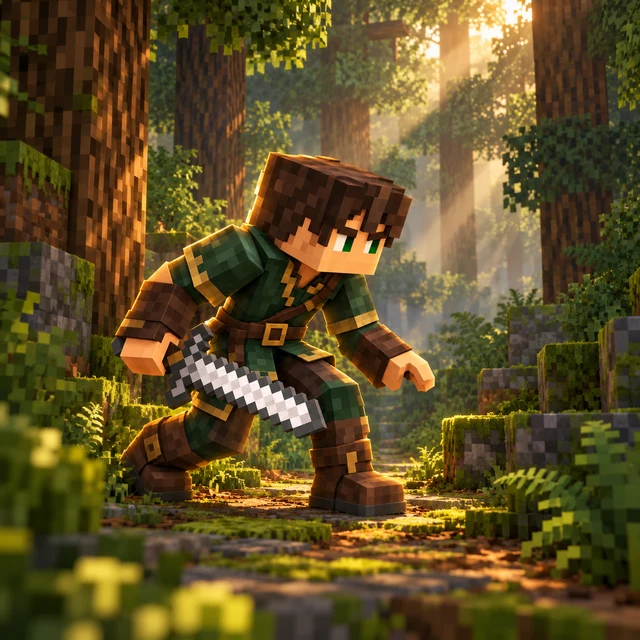
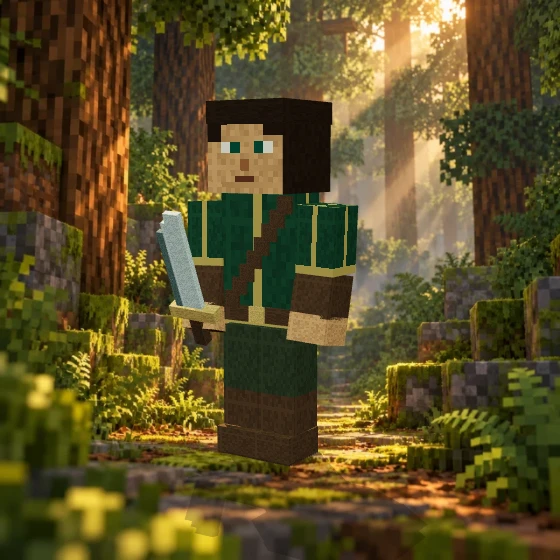
Animate standing crouch and seamless invisibility sequence

Changed region(s): [[0.1214, 0.1518, 0.7286, 0.9714], [0.6982, 0.6375, 0.7893, 0.6679], [0.7286, 0.7589, 0.7589, 0.7893]]

diff --git a/scripts/render-sneak.html b/scripts/render-sneak.html
@@ -1,0 +1,331 @@
+<!doctype html>
+<html>
+  <head>
+    <meta charset="utf-8" />
+    <title>Sneak animation studio</title>
+    <style>
+      body {
+        margin: 0;
+        background: #11271f;
+        color: #edd8ac;
+        font: 16px system-ui;
+      }
+      canvas {
+        display: block;
+      }
+      button {
+        padding: 12px;
+        margin: 10px;
+      }
+      #status {
+        padding: 10px;
+      }
+    </style>
+  </head>
+  <body>
+    <canvas id="scene"></canvas><button id="stand">Standing pose</button
+    ><button id="crouch">Crouching pose</button
+    ><button id="replay">Replay</button
+    ><button id="export">Export animation frames</button
+    ><button id="still">Export standing still</button>
+    <div id="status">Loading woodland…</div>
+    <script type="module">
+      import * as THREE from "/node_modules/three/build/three.module.js";
+      const W = 560,
+        FPS = 16,
+        DURATION = 7,
+        COUNT = FPS * DURATION;
+      const renderer = new THREE.WebGLRenderer({
+        canvas: document.querySelector("#scene"),
+        antialias: true,
+        preserveDrawingBuffer: true,
+      });
+      renderer.shadowMap.enabled = true;
+      renderer.shadowMap.type = THREE.PCFSoftShadowMap;
+      renderer.setSize(W, W);
+      renderer.setPixelRatio(1);
+      renderer.outputColorSpace = THREE.SRGBColorSpace;
+      renderer.toneMapping = THREE.ACESFilmicToneMapping;
+      renderer.toneMappingExposure = 1.22;
+      const scene = new THREE.Scene();
+      scene.background = await new THREE.TextureLoader().loadAsync(
+        "/public/art/sneak-woods.webp",
+      );
+      scene.background.colorSpace = THREE.SRGBColorSpace;
+      const camera = new THREE.PerspectiveCamera(33, 1, 0.1, 250);
+      camera.position.set(36, 27, 78);
+      camera.lookAt(0, 16, 0);
+      scene.add(new THREE.HemisphereLight(0xd9eed7, 0x3b2817, 2.3));
+      const sun = new THREE.DirectionalLight(0xffd28b, 4);
+      sun.position.set(-18, 40, -22);
+      sun.castShadow = true;
+      sun.shadow.mapSize.set(1024, 1024);
+      sun.shadow.camera.left = -25;
+      sun.shadow.camera.right = 25;
+      sun.shadow.camera.top = 45;
+      sun.shadow.camera.bottom = -20;
+      sun.shadow.bias = -0.001;
+      scene.add(sun);
+      const fill = new THREE.DirectionalLight(0xe4edff, 1.1);
+      fill.position.set(20, 18, 40);
+      scene.add(fill);
+      const fade = { value: 1 };
+      function texture(base, kind) {
+        const c = document.createElement("canvas");
+        c.width = c.height = 16;
+        const ctx = c.getContext("2d");
+        const color = new THREE.Color(base);
+        for (let y = 0; y < 16; y++)
+          for (let x = 0; x < 16; x++) {
+            const n = 1 + (((x * 17 + y * 31 + x * y * 7) % 19) - 9) * 0.02;
+            ctx.fillStyle =
+              "#" + color.clone().multiplyScalar(n).getHexString();
+            ctx.fillRect(x, y, 1, 1);
+          }
+        if (kind === "tunic") {
+          ctx.fillStyle = "#b59a50";
+          ctx.fillRect(0, 14, 16, 2);
+          ctx.fillRect(7, 0, 2, 16);
+        }
+        if (kind === "face") {
+          ctx.fillStyle = "#352315";
+          ctx.fillRect(0, 0, 16, 4);
+          ctx.fillRect(0, 3, 3, 4);
+          ctx.fillRect(12, 3, 4, 3);
+          ctx.fillStyle = "#ede7ce";
+          ctx.fillRect(3, 7, 4, 2);
+          ctx.fillRect(10, 7, 4, 2);
+          ctx.fillStyle = "#245746";
+          ctx.fillRect(5, 7, 2, 2);
+          ctx.fillRect(10, 7, 2, 2);
+          ctx.fillStyle = "#9e6540";
+          ctx.fillRect(7, 10, 2, 2);
+          ctx.fillStyle = "#704329";
+          ctx.fillRect(6, 13, 4, 1);
+        }
+        const tex = new THREE.CanvasTexture(c);
+        tex.magFilter = THREE.NearestFilter;
+        tex.minFilter = THREE.NearestFilter;
+        tex.colorSpace = THREE.SRGBColorSpace;
+        return tex;
+      }
+      function mat(color, kind) {
+        const m = new THREE.MeshStandardMaterial({
+          map: texture(color, kind),
+          roughness: 0.86,
+        });
+        m.onBeforeCompile = (s) => {
+          s.uniforms.visibility = fade;
+          s.fragmentShader = "uniform float visibility;\n" + s.fragmentShader;
+          s.fragmentShader = s.fragmentShader.replace(
+            "#include <clipping_planes_fragment>",
+            "#include <clipping_planes_fragment>\nvec2 cell=floor(gl_FragCoord.xy/2.0); float noise=fract(sin(dot(cell,vec2(12.9898,78.233)))*43758.5453); if(visibility <= 0.0 || noise > visibility) discard;",
+          );
+        };
+        return m;
+      }
+      const green = mat("#284d37", "tunic"),
+        leather = mat("#59402b"),
+        skin = mat("#c79260"),
+        hair = mat("#382719"),
+        face = mat("#c79260", "face"),
+        gold = mat("#c4a15a"),
+        pants = mat("#3d4530"),
+        iron = mat("#c7d2cb"),
+        edge = mat("#657a77");
+      const root = new THREE.Group();
+      root.rotation.y = -0.15;
+      root.position.x = -1;
+      scene.add(root);
+      function box(parent, w, h, d, x, y, z, material) {
+        const mesh = new THREE.Mesh(new THREE.BoxGeometry(w, h, d), material);
+        mesh.castShadow = true;
+        mesh.receiveShadow = true;
+        mesh.position.set(x, y, z);
+        parent.add(mesh);
+        return mesh;
+      }
+      function joint(parent, x, y, z) {
+        const j = new THREE.Group();
+        j.position.set(x, y, z);
+        parent.add(j);
+        return j;
+      }
+      const hip = joint(root, 0, 12, 0),
+        torso = joint(hip, 0, 0, 0);
+      box(torso, 8, 12, 4, 0, 6, 0, green);
+      box(torso, 8.15, 1.5, 4.15, 0, 1, 0, leather);
+      box(torso, 1.6, 1.5, 0.3, 0, 1, 2.2, gold);
+      for (let i = 0; i < 8; i++)
+        box(torso, 1.5, 1.6, 0.3, 3 - i * 0.82, 11 - i * 1.25, 2.15, leather);
+      const head = joint(torso, 0, 12, 0);
+      box(head, 8, 8, 8, 0, 4, 0, [hair, hair, hair, skin, face, hair]);
+      box(head, 8.2, 2, 8.2, 0, 7.1, 0, hair);
+      const legs = [];
+      for (const side of [-1, 1]) {
+        const thigh = joint(hip, side * 2, -0.2, 0);
+        box(thigh, 3.8, 6, 4, 0, -3, 0, pants);
+        const knee = joint(thigh, 0, -6, 0);
+        box(knee, 3.8, 6, 4, 0, -3, 0, leather);
+        box(knee, 4, 2.5, 5, 0, -4.8, 0.45, leather);
+        legs.push({ thigh, knee });
+      }
+      const arms = [];
+      for (const side of [-1, 1]) {
+        const shoulder = joint(torso, side * 6, 10, 0);
+        box(shoulder, 4, 6, 4, 0, -2, 0, green);
+        const elbow = joint(shoulder, 0, -5, 0);
+        box(elbow, 3.8, 4, 3.8, 0, -2, 0, leather);
+        box(elbow, 3.8, 2.5, 3.8, 0, -5, 0, skin);
+        arms.push({ shoulder, elbow });
+      }
+      const sword = joint(arms[0].elbow, 0, -5.5, 2);
+      sword.rotation.x = 0.72;
+      sword.rotation.z = -0.12;
+      box(sword, 1.2, 3, 1, 0, -1, 0, leather);
+      box(sword, 5, 1.2, 1.2, 0, 1, 0, gold);
+      for (let y = 2; y < 12; y++) {
+        box(sword, y === 11 ? 1 : 2.1, 1, 0.6, 0, y, 0, iron);
+        if (y < 10) box(sword, 0.7, 1, 0.65, -1.4, y, 0, edge);
+      }
+      box(sword, 1, 1, 0.65, 0.6, 11, 0, iron);
+      const shadowMat = new THREE.ShadowMaterial({
+        opacity: 0.3,
+        depthWrite: false,
+      });
+      const shadow = new THREE.Mesh(new THREE.PlaneGeometry(80, 80), shadowMat);
+      shadow.rotation.x = -Math.PI / 2;
+      shadow.position.set(-1, -0.1, 0);
+      shadow.receiveShadow = true;
+      scene.add(shadow);
+      const motes = [];
+      for (let i = 0; i < 30; i++) {
+        const m = new THREE.Mesh(
+          new THREE.BoxGeometry(0.22, 0.22, 0.22),
+          new THREE.MeshBasicMaterial({
+            color: i % 3 === 0 ? 0xdcc987 : 0x89b9a0,
+            transparent: true,
+          }),
+        );
+        scene.add(m);
+        motes.push(m);
+      }
+      const ease = (x) => {
+        x = Math.max(0, Math.min(1, x));
+        return x * x * (3 - 2 * x);
+      };
+      function pose(t) {
+        const crouch = ease((t - 2) / 0.5) * (1 - ease((t - 5.75) / 0.75));
+        const phase = (t / DURATION) * Math.PI * 2;
+        fade.value =
+          t < 3
+            ? 1
+            : t < 3.75
+              ? 1 - ease((t - 3) / 0.75)
+              : t < 5.75
+                ? 0
+                : ease((t - 5.75) / 0.75);
+        hip.position.y =
+          6 * Math.cos(0.58 * crouch) +
+          6 * Math.cos(0.34 * crouch) +
+          0.1 * Math.sin(phase * 2) * (1 - crouch);
+        hip.position.z =
+          6 * Math.sin(-0.58 * crouch) + 6 * Math.sin(0.34 * crouch);
+        torso.rotation.x = 0.42 * crouch;
+        head.rotation.x = -0.3 * crouch + 0.025 * Math.sin(phase * 2);
+        head.rotation.y = 0.16 * Math.sin(phase);
+        root.rotation.y = -0.15 + 0.025 * Math.sin(phase);
+        legs.forEach(({ thigh, knee }, i) => {
+          thigh.rotation.x = -0.58 * crouch;
+          knee.rotation.x = 0.92 * crouch;
+        });
+        arms.forEach(({ shoulder, elbow }, i) => {
+          shoulder.rotation.x =
+            -0.07 -
+            0.55 * crouch +
+            0.09 * Math.sin(phase * 2 + i) * (1 - crouch);
+          shoulder.rotation.z =
+            (i === 0 ? 1 : -1) * (0.04 + 0.035 * Math.sin(phase));
+          elbow.rotation.x = -0.18 - 0.2 * crouch;
+        });
+        shadowMat.opacity = 0.22 * fade.value;
+        const spell = Math.sin(Math.PI * fade.value);
+        motes.forEach((m, i) => {
+          const a = i * 2.399 + t * 0.75;
+          m.position.set(
+            -1 + Math.cos(a) * (4 + (i % 4)),
+            4 + ((i * 3.17 + t * 5) % 25),
+            Math.sin(a) * (3 + (i % 3)),
+          );
+          m.material.opacity = spell * 0.58;
+          m.visible = spell > 0.01;
+        });
+        renderer.render(scene, camera);
+      }
+      let paused = false;
+      const start = performance.now();
+      function tick() {
+        if (!paused) pose(((performance.now() - start) / 1000) % DURATION);
+        requestAnimationFrame(tick);
+      }
+      tick();
+      document.querySelector("#status").textContent =
+        "7-second loop: idle 0–2s · crouch 2–3s · vanish 3–3.75s · invisible 3.75–5.75s · rise/reappear 5.75–6.5s · settle to 7s";
+      function download(canvas, name) {
+        return new Promise((resolve) =>
+          canvas.toBlob((blob) => {
+            const a = document.createElement("a");
+            a.href = URL.createObjectURL(blob);
+            a.download = name;
+            a.click();
+            setTimeout(() => {
+              URL.revokeObjectURL(a.href);
+              resolve();
+            }, 100);
+          }, "image/png"),
+        );
+      }
+      document.querySelector("#stand").onclick = () => {
+        paused = true;
+        pose(0);
+      };
+      document.querySelector("#crouch").onclick = () => {
+        paused = true;
+        pose(2.8);
+      };
+      document.querySelector("#replay").onclick = () => {
+        paused = false;
+      };
+      document.querySelector("#still").onclick = async () => {
+        paused = true;
+        pose(0);
+        await download(renderer.domElement, "sneak-standing.png");
+        paused = false;
+      };
+      document.querySelector("#export").onclick = async () => {
+        paused = true;
+        const atlas = document.createElement("canvas");
+        atlas.width = W * 8;
+        atlas.height = W * Math.ceil(COUNT / 8);
+        const ctx = atlas.getContext("2d");
+        for (let i = 0; i < COUNT; i++) {
+          pose(i / FPS);
+          ctx.drawImage(
+            renderer.domElement,
+            (i % 8) * W,
+            Math.floor(i / 8) * W,
+          );
+          if (i % 8 === 0) {
+            document.querySelector("#status").textContent =
+              `Rendering ${i + 1}/${COUNT}`;
+            await new Promise(requestAnimationFrame);
+          }
+        }
+        await download(atlas, "sneak-frames.png");
+        document.querySelector("#status").textContent =
+          "Export complete: 112 frames, 560px, 16fps, 7 seconds";
+        paused = false;
+      };
+    </script>
+  </body>
+</html>

diff --git a/components/sneak-scene.tsx b/components/sneak-scene.tsx
@@ -15,7 +15,7 @@ export function SneakScene() {
         />
         <img
           src={paused ? "/art/sneak-visible.webp" : "/art/sneak-vanish.gif"}
-          alt="A Minecraft adventurer crouches with an iron sword on a wooded path, then fades into invisibility."
+          alt="A sword-bearing Minecraft adventurer stands alert, crouches and dissolves into invisibility, then reappears while standing up on a wooded path."
           width="640"
           height="640"
           loading="lazy"

diff --git a/docs/ASSETS.md b/docs/ASSETS.md
@@ -1,7 +1,7 @@
 # Asset provenance
 
 - `public/art/unreal-valley.webp`: original UnrealMMO concept artwork generated with the built-in image-generation tool on 19 October 2026, then encoded as WebP for delivery. Original PNG retained in the author's local generation library.
-- `public/art/sneak-vanish.gif`: original illustrated sneak/invisibility concept loop, generated with the built-in image-generation tool and assembled with FFmpeg. The character is crouched with an iron sword in a wooded Minecraft-style setting. It holds for one second, fades away over 0.75 seconds, holds the empty woods until 3.4 seconds, then reappears to repeat at four seconds. `sneak-visible.webp` supplies the reduced-motion/paused still; `sneak-woods.webp` is the matching empty background plate. These are illustrative art, not captured gameplay. No game textures or skins are distributed.
+- `public/art/sneak-vanish.gif`: original seven-second sneak/invisibility loop rendered from an articulated Three.js character, with procedural pixel textures and an iron sword, over an original imagegen wooded background. Standing idle runs from 0–2 seconds; crouching from 2–3 seconds; pixel dissolution from 3–3.75 seconds; full invisibility from 3.75–5.75 seconds; simultaneous reappearance and standing from 5.75–6.5 seconds; then standing idle returns smoothly to the start. `sneak-visible.webp` supplies the standing reduced-motion/paused still; `sneak-woods.webp` is the background plate. The original render source is `scripts/render-sneak.html`: serve the repository root locally, visit that file, and use its frame export control to produce a 112-frame atlas (8 columns, 560px tiles, 16fps). Split tiles in row-major order and encode as a looping GIF with FFmpeg. These are illustrative art, not captured gameplay. No game textures or skins are distributed.
 - `public/art/server-placard-v2.webp`: original transparent gold-and-emerald frame generated with the built-in image-generation tool; [full prompt and production notes](SERVER-SIGN-ART.md). The server address remains live HTML text.
 - `public/brand/emblem.svg`: original geometric UnrealMMO mark created for this site.
 - Isometric structure diagrams: generated from public gameplay block-coordinate definitions, using original SVG geometry.
